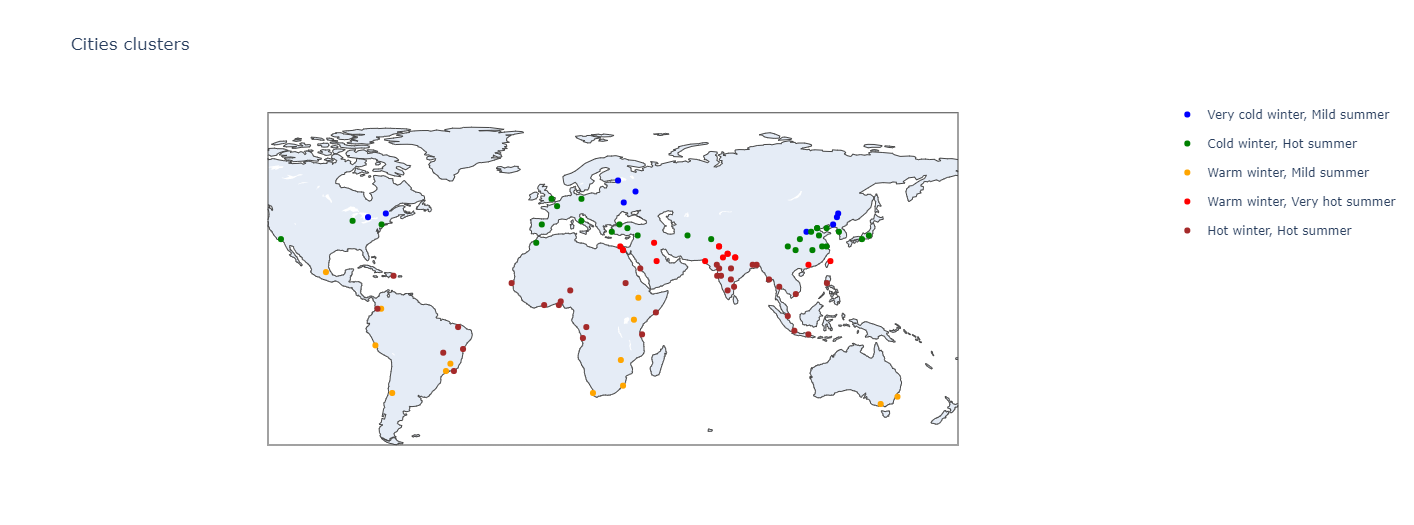
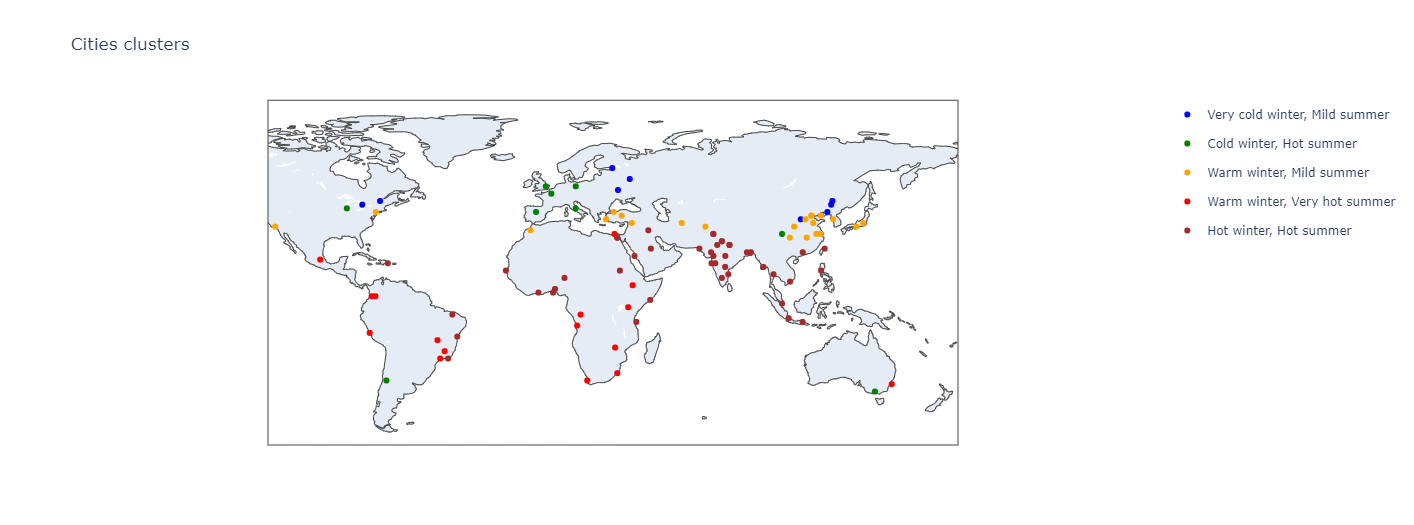
Add files via upload

Changed region(s): [[0.1867, 0.1829, 0.6846, 0.8533]]

diff --git a/report/chapters/time_series_analysis.tex b/report/chapters/time_series_analysis.tex
@@ -4,32 +4,25 @@ We decided to do task 4.1 as last part of the project which expected us to find 
 
 \begin{figure}[H]
     \centering
-    \subfloat[Initial dataset]{\includegraphics[width=0.45\linewidth]{images/time_series_analysis/timeseries_dataset.jpg}}
-    \subfloat[The organized dataset]{\includegraphics[width=0.55\linewidth]{images/time_series_analysis/timeseries_dataset_modified.jpg}}
+    \subfloat[Initial dataset]{\includegraphics[width=0.38\linewidth]{images/time_series_analysis/timeseries_dataset.jpg}}
+    \subfloat[The organized dataset]{\includegraphics[width=0.48\linewidth]{images/time_series_analysis/timeseries_dataset_modified.jpg}}
     \caption{Time series dataset before and after using the pivot method from pandas.}
     \label{fig:timeseries_dataset}
 \end{figure}
 
-We used the k-means clustering from the tslearn package find thhose similar groups of cities, in order to choose the best values of k (the number of clusters) we based our choice, as seen during the clustering task, on the SSE, silhouette and Davies-Bouldin scores. Afterwards, we took the best k value and we used it to do the final clustering on the cities data frame.
+\subsection{Shape-based clustering}
+We used the k-means clustering from the tslearn package to find those similar groups of cities and in order to choose the best values of k (the number of clusters) we based our choice, as seen during the clustering task, on the SSE, silhouette and Davies-Bouldin scores. Afterwards, we took the best k value and we used it to do the final clustering on the cities dataframe.
 \begin{figure}[H]
     \centering
-    \subfloat[Scores]{\includegraphics[width=0.38\linewidth]{images/time_series_analysis/timeseries_k.png}}
-    \subfloat[The plot with k=5]{\includegraphics[width=0.62\linewidth]{images/time_series_analysis/timeseries_plot_cluster.png}}
+    \subfloat[Scores]{\includegraphics[width=0.28\linewidth]{images/time_series_analysis/timeseries_k.png}}
+    \subfloat[The plot with k=5]{\includegraphics[width=0.4\linewidth]{images/time_series_analysis/timeseries_plot_clusters.png}}
     \caption{Scores for each value of k and clustering with the best k value.}
     \label{fig:timeseries_clusters}
 \end{figure}
-As \autoref{fig:timeseries_clusters} on the left shows, by using the elbow rule and by looking at the other two values we took 5 as the best value for k and the final clustering analysis is shown on \autoref{fig:timeseries_clusters} on the right end.\\
+As \autoref{fig:timeseries_clusters} on the left shows, by using the elbow rule and by looking at the other two values we took 5 as the best value for k and the final clustering analysis is shown on \autoref{fig:timeseries_clusters} on the right end.
+\vspace{3mm}
 
-The cities are, therefore, separated in five different cluster in accordance to their temperature trends: cluster 0 with warm winter and very hot summer, cluster 1 composed by cold winter and hot summer, cluster 2 having very hot winter and very hot summer, cluster 3 characterized by warm winter and mild summer and lastly cluster 4 which has very cold winter and mild summer.
-\iffalse
-\begin{itemize}
-    \item Cluster 0, warm winter and very hot summer.
-    \item Cluster 1, cold winter and hot summer.
-    \item Cluster 2, very hot winter and very hot summer.
-    \item Cluster 3, warm winter and mild summer.
-    \item Cluster 4, very cold winter and mild summer.
-\end{itemize}
-\fi
+The cities are, therefore, separated in five different cluster in accordance to their temperature trends: \textit{warm winter and very hot summer}, \textit{cold winter and hot summer}, \textit{very hot winter and very hot summer}, \textit{warm winter and mild summer} and lastly \textit{very cold winter and mild summer}.
 We then plotted those temperature trends on a graph in order to compare them between each other, the cities were, instead, plotted on a map according to the cluster they belong to.
 \begin{figure}[H]
     \centering
@@ -38,4 +31,15 @@ We then plotted those temperature trends on a graph in order to compare them bet
     \caption{Temperature trends for each cluster and the map with the cities plotted with respect to the cluster they belong to.}
     \label{fig:timeseries_plot_map}
 \end{figure}
-The map in \autoref{fig:timeseries_plot_map} shows that cities in similar clusters are somewhat at the same latitude (which is something that we expected). There could have been some outliers due to high altitude, but most of the cities considered are on plain or hills, the few cities with high altitudes (such as Mexico City) are located near a tropic and are, therefore, hot.
+The map in \autoref{fig:timeseries_plot_map} shows that cities in similar clusters are somewhat at the same latitude (which is something that we expected).
+
+\subsection{Feature-based clustering}
+As final clustering analysis on the time series, we decided to try the feature-based approach by defining new features from the ones we had and by doing the same work that we did for the shape-based clustering. The features we built were based on the mean temperatures for each season (keep in mind that seasons are different in the two emispheres) and then we inserted the mean, max and min temperatures recorded for each city.
+\begin{figure}[H]
+    \centering
+    \subfloat[Cluster trends]{\includegraphics[width=0.41\linewidth]{images/time_series_analysis/timeseries_fbc_plot.png}}
+    \subfloat[Cluster map]{\includegraphics[width=0.59\linewidth]{images/time_series_analysis/timeseries_fbc_map.png}}
+    \caption{Statistics for each cluster (our newly defined features) and the map with the cities plotted with respect to the cluster they belong to.}
+    \label{fig:timeseries_fbc_plot_map}
+\end{figure}
+The results are pretty similar with respect to the shape-based approach since not many cities were classified in very different clusters.

diff --git a/report/chapters/predictive_analysis.tex b/report/chapters/predictive_analysis.tex
@@ -18,7 +18,7 @@ Before applying any of the following classification algorithms, we splitted the 
 
 The following results have been obtained by exploiting the best parameters carried out by the K-Fold cross validation, with K equal to 4, comparing the results by measuring the accuracy score between the K folds. For the lack of space, we will only show the graphical results for the male players, whereas in \autoref{subsect:comparison} we study the performance obtained by our models in both the male and female data set.
 
-\paragraph{Evaluation} In order to evaluate the goodness of our models, we'll show classification metrics like accuracy, precision, recall and F1 score. The miss-classified patterns can be numerically viewed by using the confusion matrix (label 0 for 'weak', 1 for 'strong') and graphically by plotting the ROC curve. Finally, for those models that are interpretable, we'll show the "global" weight that each feature had in the classification of the tennis players. Talking about the test set, it is made up of imbalanced data, having the same distribution as the original dataset, thus it's without any sampling strategy applied. This means that any of the following algorithm must beat the dummy classifier.
+\paragraph{Evaluation} In order to evaluate the goodness of our models, we'll show classification metrics like accuracy, precision, recall and F1 score. The miss-classified patterns can be numerically viewed by using the confusion matrix (label 0 for 'weak', 1 for 'strong') and graphically by plotting the ROC curve. Finally, we'll show the "global" weight that each feature had in the classification of the tennis players for those models that offer this capability. Talking about the test set, it is made up of imbalanced data, having the same distribution as the original dataset, thus it's without any sampling strategy applied. This means that any of the following algorithm must beat the dummy classifier.
 
 
 \subsubsection{Decision tree}
@@ -118,7 +118,7 @@ TabNet \cite{arik2020tabnet} is a novel high-performance and interpretable canon
 \end{figure}
 
 \subsection{Comparison} \label{subsect:comparison}
-In this section we show how the aforementioned algorithms performed in both the male and female datasets. In \autoref{tab:female_compare} and \autoref{tab:male_compare} we reported the performances in percentages. For each numerical entry, the first number is referred to the 'weak' class and the second one to the 'strong' class. In general, there wasn't a model that performed well in both the two data set as AdaBoost obtained the best performance on the female data set, whereas Random Forest in the male one. In the end, we can assert that AdaBoost was the best model overall, which is a good result because it is also interpretable. For this reason, we also compared the feature importance that this model associates to the male players with respect to the female players, as shown in \autoref{fig:FeatImpSex}.
+In this section we show how the aforementioned algorithms performed in both the female and male datasets. In \autoref{tab:female_compare} and \autoref{tab:male_compare} we reported the performances in percentages. For each numerical entry, the first number is referred to the 'weak' class and the second one to the 'strong' class. In general, there wasn't a model that performed well in both the two data set as AdaBoost obtained the best performance on the female data set, whereas Random Forest in the male one. In the end, we can assert that AdaBoost was the best model overall, which is a good result because it is also interpretable. For this reason, we also compared the feature importance that this model associates to the male players with respect to the female players, as shown in \autoref{fig:FeatImpSex}.
 
 \begin{table}[H]
 \footnotesize
@@ -138,7 +138,7 @@ KNN & 95/86 & 88/95 & 91/90 & 91 & 94/68 & 88/83 & 91/75 & 87\\
 \rowcolor{gray!40} Neural Network & 92/87 & 89/91 & 91/89 & 90 & 98/71 & 88/94 & 93/81 & 89\\
 TabNet & 97/85 & 86/97 & 91/91 & 91 & 93/70 & 89/78 & 91/74 & 87\\\hline \hline
 \end{tabular}
-\caption{A comparison between the performance of the algorithms used to classify the female players.}
+\caption{A comparison between the performance of the algorithms employed to classify the female players.}
 \label{tab:female_compare}
 \end{table}
 
@@ -159,7 +159,7 @@ SVM & 100/97 & 98/99 & 99/98 & 98 & 95/88 & 96/86 & 96/87 & 93\\
 \rowcolor{gray!40} Neural Network & 93/92 & 94/91 & 93/92 & 93 & 98/85 & 94/95 & 96/90 & 95\\
 \rowcolor{brown!50}TabNet & 94/88 & 90/93 & 92/90 & 91 & 97/85 & 94/93 & 96/89 & 94\\\hline \hline
 \end{tabular}
-\caption{A comparison between the performance of the algorithms used to classify the male players.}
+\caption{A comparison between the performance of the algorithms employed to classify the male players.}
 \label{tab:male_compare}
 \end{table}
 
@@ -167,6 +167,6 @@ SVM & 100/97 & 98/99 & 99/98 & 98 & 95/88 & 96/86 & 96/87 & 93\\
     \centering
     \subfloat[Features importance for female]{\includegraphics[width=0.35\linewidth]{images/predictive_analysis/comparison/ada_featImp_f.png}}
     \subfloat[Features importance for male]{\includegraphics[width=0.35\linewidth]{images/predictive_analysis/ada_boost/ada_imp_m.png}}
-    \caption{Features importance based on the sex of the player.}
+    \caption{Features importance to classify a player based on its sex.}
     \label{fig:FeatImpSex}
 \end{figure}
